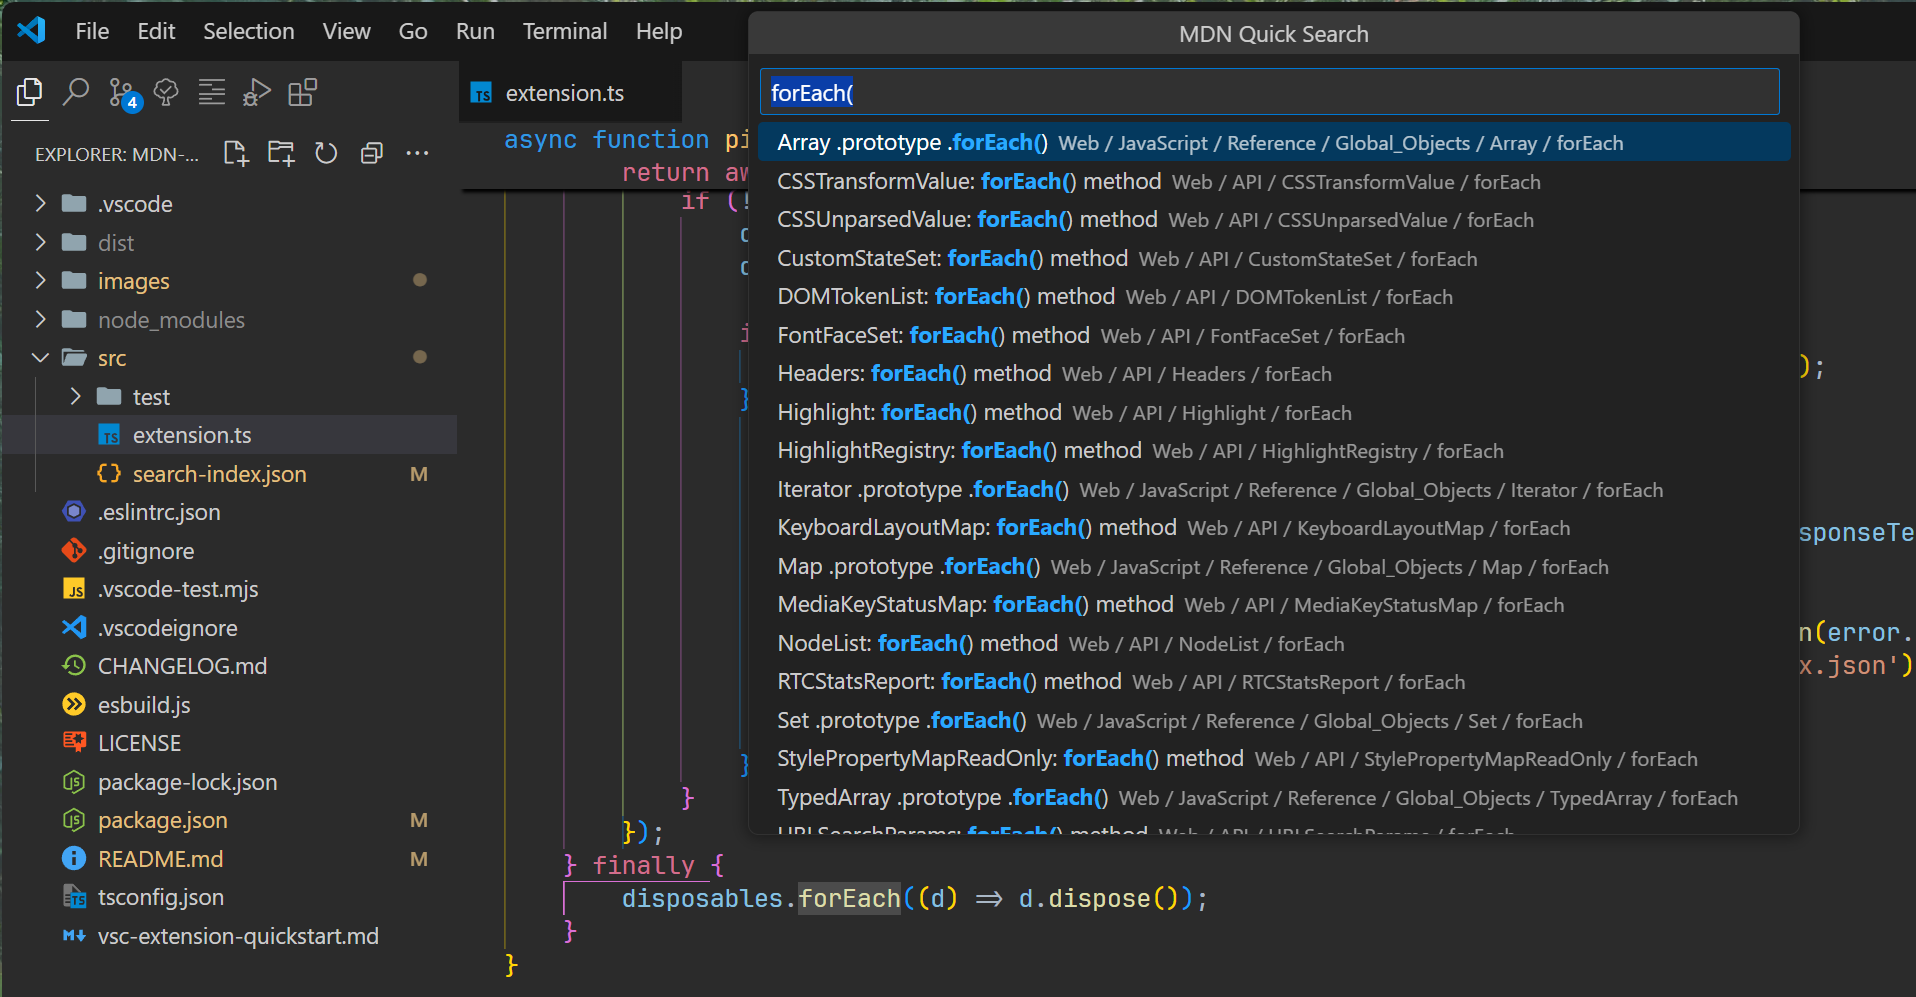
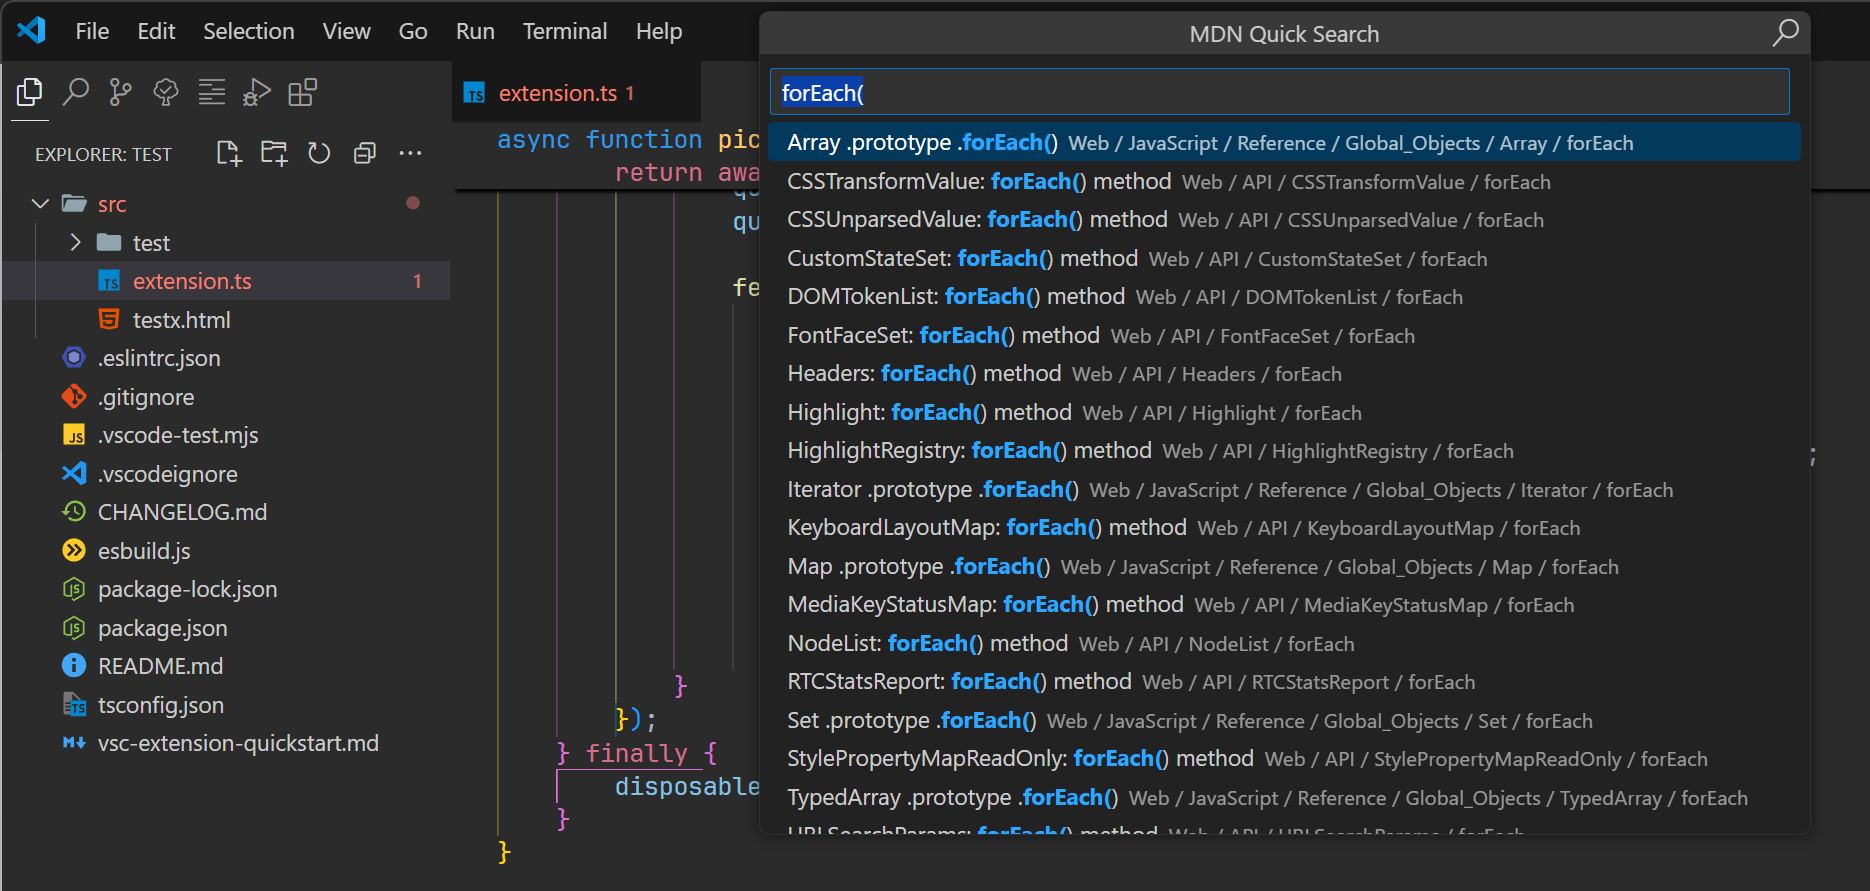
search button in title bar

diff --git a/src/extension.ts b/src/extension.ts
@@ -1,4 +1,4 @@
-import { Disposable, ExtensionContext, QuickPick, QuickPickItem, Range, TextEditor, Uri, commands, env, window, workspace } from 'vscode';
+import { Disposable, ExtensionContext, QuickPick, QuickPickItem, Range, TextEditor, ThemeIcon, Uri, commands, env, window, workspace } from 'vscode';
 import { xhr, XHRResponse, getErrorStatusDescription } from 'request-light';
 
 interface SearchIndexItem {
@@ -10,6 +10,7 @@ interface SearchIndexPickItem extends QuickPickItem {
     url: string;
 }
 
+let searchQueryUrl = '';
 let searchIndexUrl = '';
 let alwaysUseBuiltInSearchIndex = false;
 let searchIndex: SearchIndexPickItem[] | undefined;
@@ -21,6 +22,7 @@ let searchIndex: SearchIndexPickItem[] | undefined;
  */
 export function activate(context: ExtensionContext): void {
     const config = workspace.getConfiguration('mdnQuickSearch');
+    searchQueryUrl = config.get('searchQueryUrl', 'https://developer.mozilla.org/en-US/search?q=');
     searchIndexUrl = config.get('searchIndexUrl', 'https://developer.mozilla.org/en-US/search-index.json');
     alwaysUseBuiltInSearchIndex = config.get('alwaysUseBuiltInSearchIndex', false);
 
@@ -103,9 +105,26 @@ async function pickSearchIndexItem(searchText: string): Promise<string | undefin
                 quickPick.onDidHide(() => {
                     resolve(undefined);
                     quickPick.dispose();
+                }),
+                quickPick.onDidTriggerButton(() => {
+                    let searchTerm = quickPick.value.trim();
+                    if (searchTerm.length > 1) {
+                        if (searchTerm.slice(-1) === '(') {
+                            searchTerm = searchTerm.substring(0, searchTerm.length - 1);
+                        }
+                        env.openExternal(Uri.parse(searchQueryUrl + encodeURIComponent(searchTerm)));
+                        resolve(undefined);
+                        quickPick.dispose();
+                    }
                 })
             );
 
+            quickPick.buttons = [
+                {
+                    iconPath: new ThemeIcon('search'),
+                    tooltip: 'Search at MDN site',
+                },
+            ];
             quickPick.value = searchText;
             quickPick.show();
 

diff --git a/README.md b/README.md
@@ -17,6 +17,7 @@ This extension contributes the following command:
 
 This extension contributes the following settings:
 
+* `mdnQuickSearch.searchQueryUrl`: URL for executing a search query at the MDN site (the search term is appended to the end of this URL).
 * `mdnQuickSearch.searchIndexUrl`: URL of the MDN search index json file.
 * `mdnQuickSearch.alwaysUseBuiltInSearchIndex`: If enabled then always uses the built-in search index,
     otherwise the newest search index is loaded from `mdnQuickSearch.searchIndexUrl` and the built-in one is used only in case of failure.
@@ -30,3 +31,6 @@ Word order is important when searching.
 For example if you want to search for the `push` method from the `Array` object then you have to search for `array push`.
 
 Searching for `push array` will not succeed, because the MDN search index contains the words in the other order.
+
+If searching the MDN search index is not satisfactory, then you can push the **search button** in the title bar of the QuickPick box
+to execute a search query at the MDN site using the entered search term.

diff --git a/CHANGELOG.md b/CHANGELOG.md
@@ -1,5 +1,9 @@
 # Change Log
 
+## 1.1.0
+
+- New search button in the title bar of the MDN Quick Search box for executing a search query at the MDN site
+
 ## 1.0.10
 
 - Updated built-in search index
